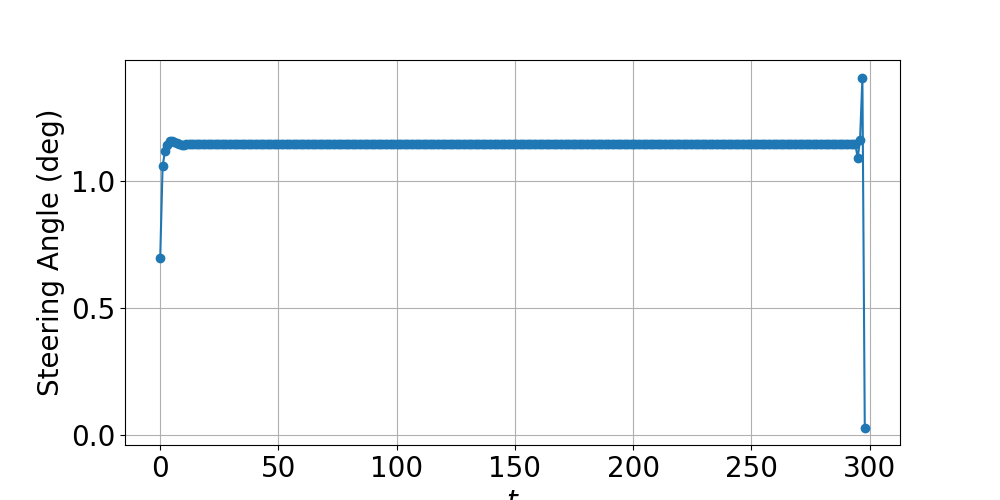
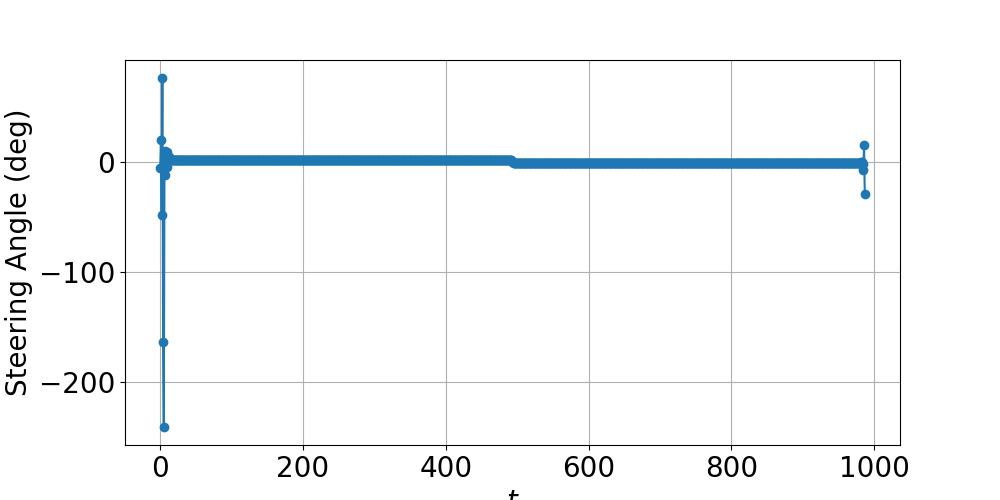
S-shaped road tracking implemented for iLQR and MPC

diff --git a/lecture_8_method.py b/lecture_8_method.py
@@ -136,7 +136,7 @@ class TotalCost(NamedTuple):
     
 
 @jax.jit
-def iterative_linear_quadratic_regulator(dynamics, total_cost, x0, u_guess, maxiter=1000, atol=1e-3):
+def iterative_linear_quadratic_regulator(dynamics, total_cost, x0, u_guess, maxiter=5000, atol=1e-3):
     running_cost, terminal_cost = total_cost
     n, (N, m) = x0.shape[-1], u_guess.shape
     step_range = jnp.arange(N)
@@ -280,23 +280,52 @@ def generate_constant_curvature(N, params, final_heading, v0, v_end):
     s_ref[:, 3] = np.linspace(v0, v_end, N)
 
     return s_ref
+
+# Generate S-shaped road trajectory with 2 different radii of curvature and initial heading of 0
+def generate_s_shaped_road(N, params, v0, v_end):
+    s_ref = np.zeros((N, 4))
+    N1 = N // 2
+    N2 = N - N1 + 1
+
+    r1 = params['R'] # First bend curvature
+    theta1 = np.linspace(-np.pi / 2, np.pi / 2, N1)
+    road_x1 = r1 * np.cos(theta1) # road x position
+    road_y1 = r1 * (np.sin(theta1) + 1)  # road y position
+    road_dx1 = -r1 * np.sin(theta1)
+    road_dy1 = r1 * np.cos(theta1)
+    road_psi1 = np.arctan2(road_dy1, road_dx1) # road heading
+
+    r2 = params['R2'] # Second bend curvature
+    theta2 = -np.linspace(np.pi / 2, 3 * np.pi / 2, N2)
+    road_x2 = r2 * np.cos(theta2) # road x position
+    road_y2 = r2 * (np.sin(theta2) + 1) +  2 * r1  # road y position
+    road_dx2 = r2 * np.sin(theta2)
+    road_dy2 = -r2 * np.cos(theta2)
+    road_psi2 = np.arctan2(road_dy2, road_dx2) # road heading
+
+    s_ref[:,0], s_ref[:, 1], s_ref[:, 2] = np.concatenate((road_x1, road_x2[1:])), np.concatenate((road_y1, road_y2[1:])), np.concatenate((road_psi1, road_psi2[1:]))
+    s_ref[:, 3] = np.linspace(v0, v_end, N)
+
+    return s_ref
     
 
 dt = 0.1
-params = {'lr': 1.0, 'lf': 1.0, 'dt': dt, 'R': 100.0}
+params = {'lr': 1.0, 'lf': 1.0, 'dt': dt, 'R': 100.0, 'R2': 100.0}
 Q = 1.0e1 * np.array([[1, 0, 0, 0], [0, 1, 0, 0], [0, 0, 1, 0], [0, 0, 0, 1]])
 R = 1.0e4 * np.array([[1, 0], [0, 1]])
 QN = 1.0e1 * np.array([[1, 0, 0, 0], [0, 1, 0, 0], [0, 0, 1, 0], [0, 0, 0, 1]])
-T = 30.0  # simulation time (decreasing makes car understeer)
+T = 99.0  # simulation time (decreasing makes car understeer)
 t = np.arange(0.0, T, dt)
-N = t.size - 1
+N = t.size -1
 
 # Initial and final velocities
-v0 = 10
-v_end = 10
+v0 = 5
+v_end = 5
 
-s_ref = generate_constant_curvature(N, params, np.pi, v0, v_end)
+#s_ref = generate_constant_curvature(N, params, np.pi/2, v0, v_end) # CONSTANT CURVATURE
+s_ref = generate_s_shaped_road(N, params, v0, v_end) # S-SHAPED ROAD
 s0_car, sgoal_car = s_ref[0], s_ref[-1]
+
 
 u_guess = jnp.zeros((N - 1, 2))
 
@@ -380,7 +409,7 @@ def affinize(f, s, u):
     c = f(s, u) - A @ s - B @ u
     return A, B, c
 
-def scp_iteration(f, s0, u0, s_road, s_prev, u_prev, P, Q, R, C):
+def scp_iteration(f, s0, u0, s_road, s_prev, u_prev, P, Q, R, C, a_max):
     """Solve a single SCP sub-problem for the obstacle avoidance problem."""
     n = s_prev.shape[-1]  # state dimension
     m = u_prev.shape[-1]  # control dimension
@@ -398,6 +427,10 @@ def scp_iteration(f, s0, u0, s_road, s_prev, u_prev, P, Q, R, C):
     constraints += [u_cvx[0] == u0 + du_cvx[0]]
     constraints += [u_cvx[k] == u_cvx[k-1] + du_cvx[k] for k in range(1, N)]
     constraints += [s_cvx[k+1] == Af[k] @ s_cvx[k] + Bf[k] @ u_cvx[k] + cf[k] for k in range(N)]
+    # Acceleration constraints (cannot exceed 3 m/s^2 for comfort)
+    constraints += [u_cvx[:,1] <= a_max]
+    constraints += [u_cvx[:,1] >= -a_max]
+
 
     prob = cvx.Problem(cvx.Minimize(objective), constraints)
     prob.solve(solver=cvx.OSQP)
@@ -422,6 +455,7 @@ def solve_obstacle_avoidance_scp(
     R,
     C,
     eps,
+    a_max,
     max_iters,
     s_init=None,
     u_init=None,
@@ -447,7 +481,7 @@ def solve_obstacle_avoidance_scp(
     J = np.zeros(max_iters + 1)
     J[0] = np.inf
     for i in range(max_iters):
-        s, u, J[i + 1] = scp_iteration(f, s0, u0, s_road, s, u, P, Q, R, C)
+        s, u, J[i + 1] = scp_iteration(f, s0, u0, s_road, s, u, P, Q, R, C, a_max)
         dJ = np.abs(J[i + 1] - J[i])
         if dJ < eps:
             converged = True
@@ -460,8 +494,8 @@ def solve_obstacle_avoidance_scp(
 f = bicycle_model
 C = np.array([[1, 0, 0, 0], [0, 1, 0, 0], [0, 0, 1, 0], [0, 0, 0, 0]])
 
-N_mpc = 5 # MPC horizon
-N_scp = 5  # maximum number of SCP iterations
+N_mpc = 10 # MPC horizon
+N_scp = 2  # maximum number of SCP iterations
 
 
 # Define constants
@@ -472,14 +506,17 @@ u_mpc = np.zeros((N, N_mpc, m))
 s = np.copy(s0_car)
 total_time = time()
 total_control_cost = 0.0
-s_init = s_iLQR[0:N_mpc+1]
-u_init = u_iLQR[0:N_mpc]
+s_init = np.copy(s_iLQR[0:N_mpc+1])
+u_init = np.copy(u_iLQR[0:N_mpc])
 u = u_init[0]
+
 P = 1e2 * np.eye(n)  # terminal state cost matrix
 Q = 1e1 * np.eye(n)  # state cost matrix
 R = 1e-2 * np.eye(m)  # control cost matrix
 eps = 1e-3  # SCP convergence tolerance
-
+tol = 1e-3 # MPC goal convergence tolerance
+a_max = 3; # max acceleration constraint
+t = 0
 for t in tqdm(range(N)):
     # Solve the MPC problem at time `t`
     s_road = np.zeros((N_mpc + 1, n))
@@ -489,7 +526,7 @@ for t in tqdm(range(N)):
          s_road[N_mpc + 1 - num_greater: N_mpc + 1] = s_ref[-1]
     else: s_road = s_ref[t:t+N_mpc+1]
 
-    s_mpc[t], u_mpc[t] = solve_obstacle_avoidance_scp(f, s, u, s_road, N_mpc, P, Q, R, C, eps, N_scp, s_init, u_init)
+    s_mpc[t], u_mpc[t] = solve_obstacle_avoidance_scp(f, s, u, s_road, N_mpc, P, Q, R, C, eps, a_max, N_scp, s_init, u_init)
 
     u = u_mpc[t, 0, :]
     s = f(s, u)
@@ -503,7 +540,9 @@ for t in tqdm(range(N)):
     s_init = np.concatenate(
         [s_mpc[t, 1:], f(s_mpc[t, -1], u_mpc[t, -1]).reshape([1, -1])]
     )
-
+    # End if car is resonably near goal state
+    if (np.linalg.norm(C @ (s - sgoal_car), np.inf) < tol):
+        break
 total_time = time() - total_time
 print("Total elapsed time:", total_time, "seconds")
 print("Total control cost:", total_control_cost)
@@ -512,19 +551,19 @@ print("Total control cost:", total_control_cost)
 #fig.suptitle("$N = {}$, ".format(N_mpc) + r"$N_\mathrm{SCP} = " + "{}$".format(N_scp))
 
 plt.figure(figsize=(10, 5))
-for t in range(N):
-    plt.plot(s_mpc[t, :, 0], s_mpc[t, :, 1], "--*", color="k")
-plt.plot(s_mpc[:, 0, 0], s_mpc[:, 0, 1], "-o", label='Generated Trajectory')
 plt.plot(s_ref[:,0], s_ref[:,1], 'r--', label='Reference Road')
+#for i in range(N):
+    #plt.plot(s_mpc[i, :, 0], s_mpc[i, :, 1], "--*", color="k")
+plt.plot(s_mpc[:t, 0, 0], s_mpc[:t, 0, 1], "-", label='Generated Trajectory')
 plt.xlabel(r"$x(t)$")
 plt.ylabel(r"$y(t)$")
-plt.axis("equal")
+#plt.axis("equal")
 plt.grid(True)
 plt.legend()
 plt.savefig("mpc_trajectory.png")
 
 plt.figure(figsize=(10, 5))
-plt.plot(u_mpc[:, 0, 0] * 180 / np.pi, "-o", label=r"$delta_f(t)$")
+plt.plot(u_mpc[:t, 0, 0] * 180 / np.pi, "-o", label=r"$delta_f(t)$")
 plt.xlabel(r"$t$")
 plt.ylabel(r"Steering Angle (deg)")
 plt.grid(True)
@@ -532,7 +571,7 @@ plt.savefig("mpc_steering_angle_trajectory.png")
 
 
 plt.figure(figsize=(10, 5))
-plt.plot(u_mpc[:, 0, 1], "-o", label=r"$a(t)$")
+plt.plot(u_mpc[:t, 0, 1], "-o", label=r"$a(t)$")
 plt.xlabel(r"$t$")
 plt.ylabel(r"$Acceleration (m/s^2)$")
 plt.grid(True)
